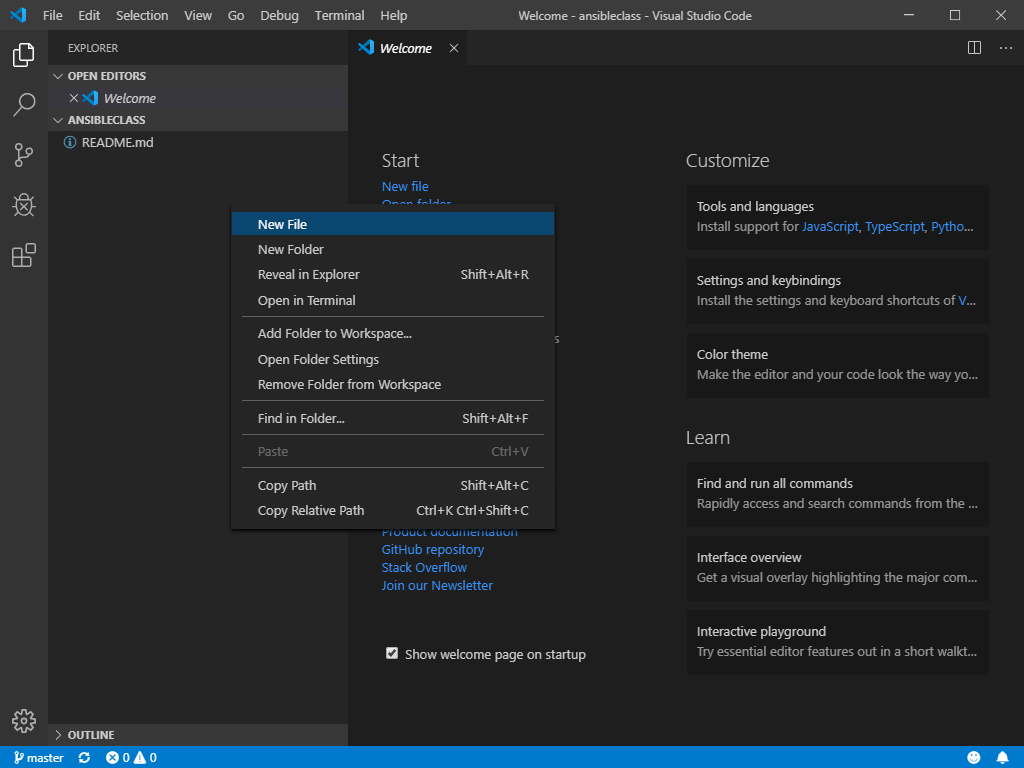
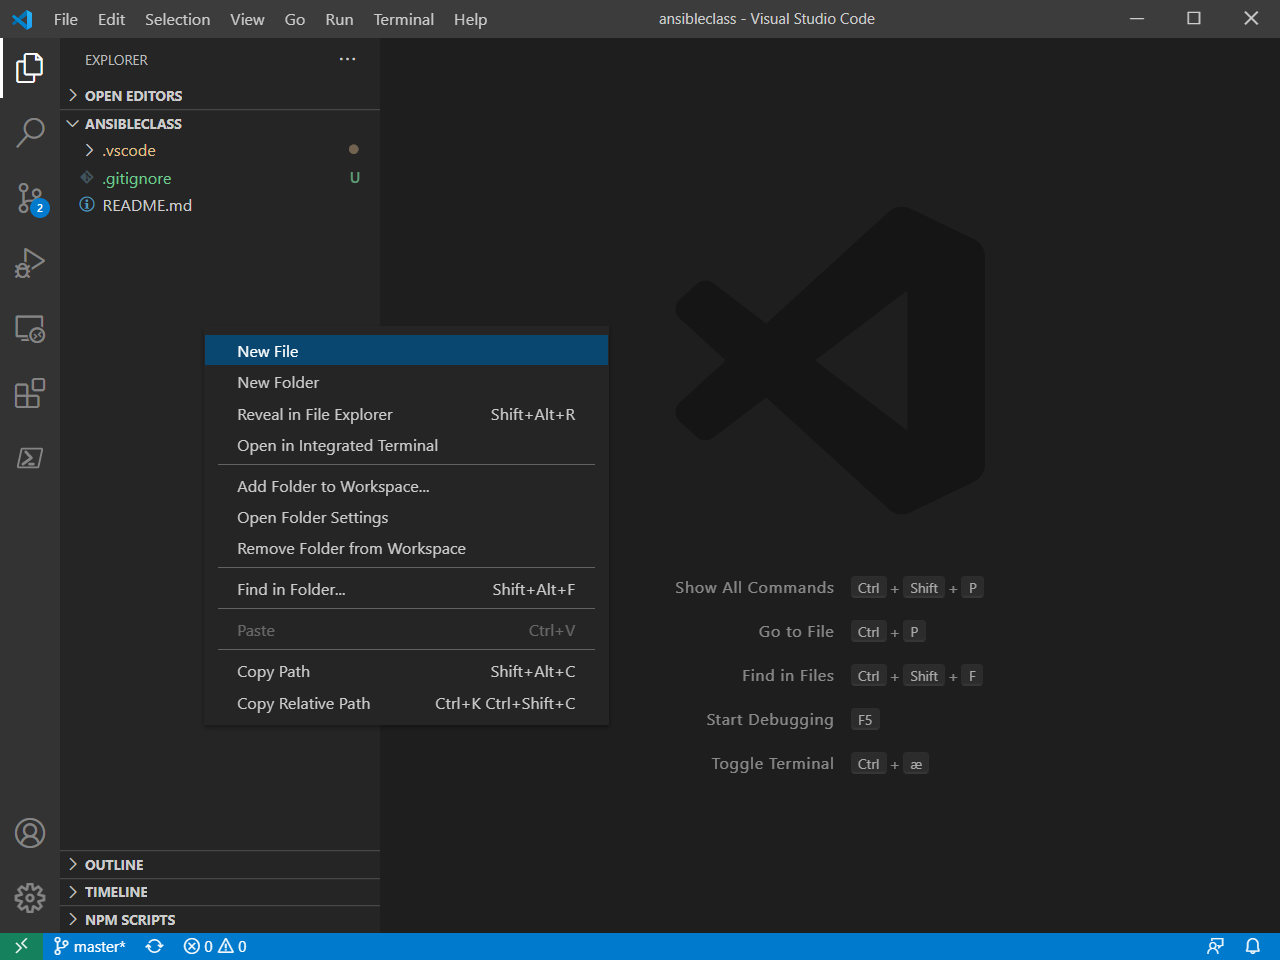
Modify first playbook

diff --git a/lab02/lab2.md b/lab02/lab2.md
@@ -147,8 +147,6 @@ In the file explorer part of VSCode rigth click on the pane below the "ANSIBLECL
 
 Name it "01_linux.yml"
 
-![Alt text](pics/016_code_playbook.png?raw=true "playbook in VSCode")
-
 Write the following in the text pane
 
 ```ansible
@@ -163,9 +161,21 @@ Write the following in the text pane
       state: touch
 ```
 
-Click the Source control button in the left panel, write a comment and click "Ctrl + Enter" to commit the changes
+Save the file (Ctrl + S)
 
-![Alt text](pics/017_code_git_commit.png?raw=true "git commit in VSCode")
+Click the Source control button in the left panel.
+
+Notice that there are three changes waiting
+
+* .gitignore
+* 01_linux.yml
+* settings.yml
+
+We need to commit the changes before .gitignore will ignore settings.yml
+
+![Alt text](pics/016_code_playbook.png?raw=true "playbook in VSCode")
+
+Write a comment __"First Playbook__" and click "Ctrl + Enter" to commit the changes
 
 Now Sync the changes Push/Pull, in the blue bar at the bottom, 0 up, 1 down it will start the sync process
 
